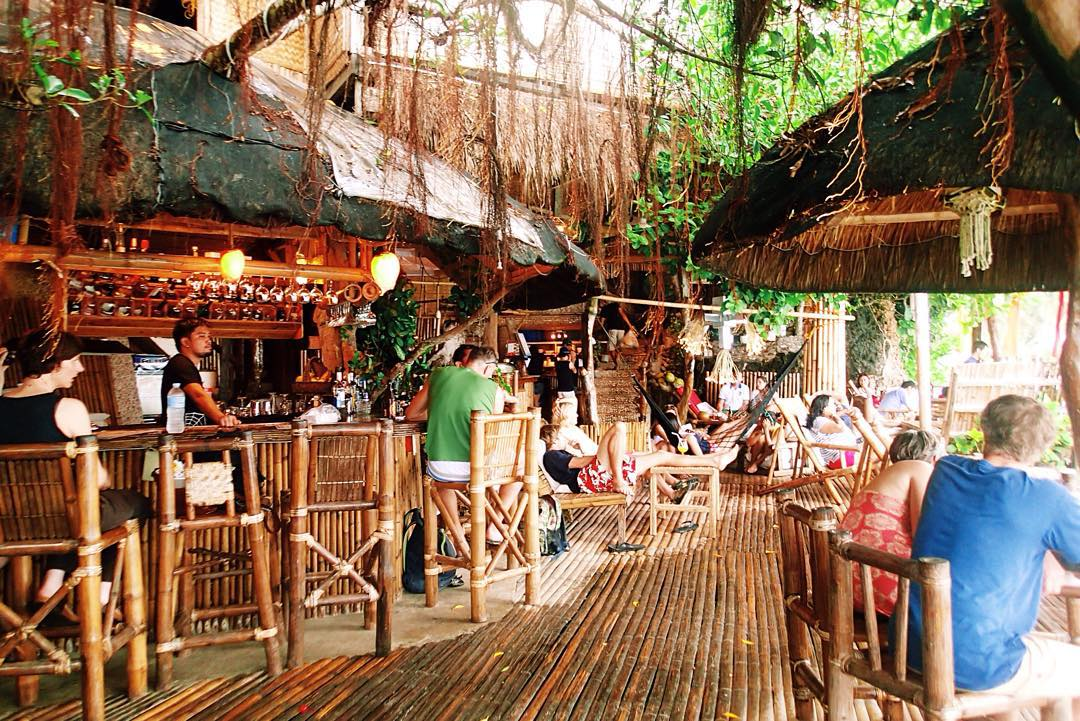
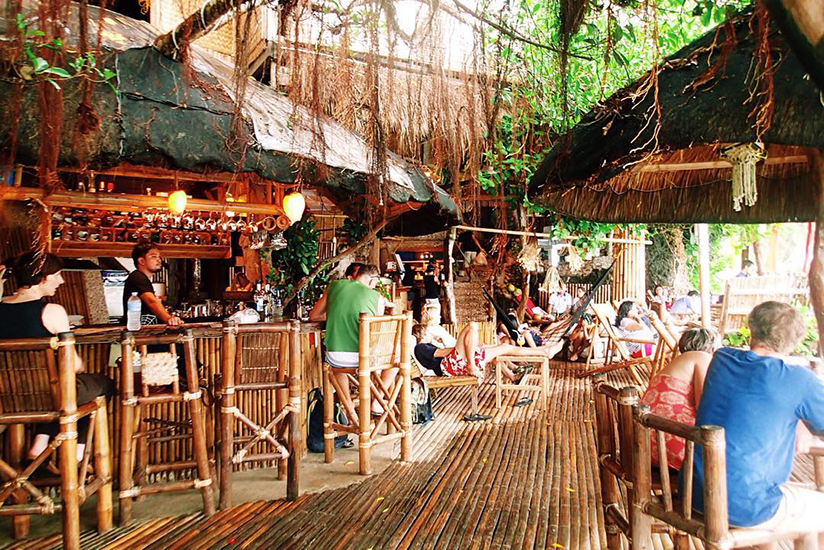
some image changes, and H-tag optimization /analytics
now can track "events" of clicking hero buttons

diff --git a/index.html b/index.html
@@ -36,7 +36,7 @@
           <div class="container">
             <div class="navbar-header">
               <button type="button" class="navbar-toggle collapsed" data-toggle="collapse" data-target="#bs-navbar-collapse-1" aria-expanded="false"> <span class="sr-only">Toggle navigation</span> <span class="icon-bar"></span> <span class="icon-bar"></span> <span class="icon-bar"></span> </button>
-              <a class="navbar-brand" href=""><img class="logo-nav" alt="Postcentive Logo" src="img/logo-nav.png"style="padding-top: 10px;"><img class="logo-head" alt="Postcentive Logo" src="img/logo-head.png" style="padding-top: 10px;"></a> </div>
+              <a class="navbar-brand" href=""><img class="logo-nav" alt="Postcentive Logo" src="img/logo-nav.png" style="padding-top: 10px;"><img class="logo-head" alt="Postcentive Logo" src="img/logo-head.png" style="padding-top: 10px;"></a> </div>
             <div class="collapse navbar-collapse" id="bs-navbar-collapse-1">
               <ul class="nav navbar-nav nav-left">
 
@@ -61,7 +61,7 @@
         </section>
       </header>
       
-     <section class="pricing section-spacing text-center" id="cloud" style="background: url('img/social-media-marketing.jpg') center no-repeat scroll;padding-bottom:70px; padding-top: 70px;background-size: cover;" alt="social media marketing">
+     <section class="pricing section-spacing text-center" id="cloud" style="background: url('img/social-media-marketing.jpg') center no-repeat scroll;padding-bottom:70px; padding-top: 70px;background-size: cover;">
         <div class="container">
           <header class="section-header">
             <span style="line-height: .8; font-size: 60px; font-weight: 600; color: black; position: relative; display: block;">NO MORE</span>
@@ -91,7 +91,7 @@
             <div class="col-md-7 col-md-push-5 text-center"> <img src="img/Company-brand-marketing.jpg" alt="Brand Marketing"> </div>
             <div class="col-md-5 col-md-pull-7">
               <article>
-                <h2 style="color:black; font-size: 46px;">How COMPANIES Use Postcentive</h2>
+                <h1 style="color:black; font-size: 46px;">COMPANIES Engage With Customers</h1>
                 <p>Brands spend a great deal of effort creating and engaging potential customers, but what happens after they buy?
       Postcentive is the ultimate tool for brands looking to foster a post-purchase relationship, win repeat business, and organically expand their reach into customer's social networks.</p>
                 <ul>
@@ -106,7 +106,7 @@
             <div class="col-md-7 text-center"> <img src="img/Customer-brand-marketing.png" alt="Customer Brand Marketing"> </div>
             <div class="col-md-5">
               <article>
-                <h2 style="color:black; font-size: 46px;">How CUSTOMERS Use Postcentive</h2>
+                <h2 style="color:black; font-size: 46px;">CUSTOMERS Engage With Companies</h2>
                 <p>Most customers think that companies are only interested in them until they buy, because customer engagement only goes as far as the checkout page.  Postcentive rewards customers for their existing brand loyalty, and inspires them to keep promoting their favorite brands.</p>
                 <ul>
                   <li>Customers feel more confident in their purchases, because their peers have already endorsed them</li>
@@ -119,10 +119,10 @@
         </div>
       </div>
 
-      <section class="pricing section-spacing text-center" id="filters" alt="marketing analytics">
+      <section class="pricing section-spacing text-center" id="filters">
         <div class="container">
           <header class="section-header">
-            <h2 style="font-size: 60px; color: black">SETTING FILTERS</h2>
+            <span style="font-size: 60px; color: black; font-weight: 600; position:relative;">SETTING FILTERS</span>
           </header>
           <div class="row">
             <div class="col-md-12">
@@ -130,9 +130,9 @@
                 <div class="plan-details">
                   <div class="header">
                     <h4 style="color: white; font-size: 40px">CAMPAIGN</h4>
-                      <h5 style="color: white; font-size: 25px; margin-bottom: 0px">TAG</h5>
+                      <span style="color: white; font-size: 25px; margin-bottom: 0px">TAG</span>
                     </div>
-                  <div class="price"></span><span style="font-size= 1em" class="price-amount">#BOEING</span><span class="period"></span> </div>
+                  <div class="price"><span style="font-size= 1em" class="price-amount">#BOEING</span><span class="period"></span> </div>
                   <ul class="plan-features">
                     <p style="color: white; margin-bottom: 30px">The "Campaign Tag" establishes that the picture posted on Instagram is directly associated with you, typically the name of your brand</p>
                   </ul>
@@ -142,9 +142,9 @@
                 <div class="plan-details">
                   <div class="header">
                     <h4 style="color: white; font-size: 40px">PRIMARY</h4>
-                      <h5 style="color: white; font-size: 25px; margin-bottom: 0px">KEYS</h5>
+                      <span style="color: white; font-size: 25px; margin-bottom: 0px">KEYS</span>
                     </div>
-                  <div class="price"></span><span class="price-amount">747</span><span class="period"></span> </div>
+                  <div class="price"><span class="price-amount">747</span><span class="period"></span> </div>
                   <ul class="plan-features">
                     <p style="color: white; margin-bottom: 30px">The "Primary Keys" tell Postcentive what you are looking for by using advanced search logic and language processing.</p>
                   </ul>
@@ -154,9 +154,9 @@
                 <div class="plan-details">
                   <div class="header">
                     <h4 style="color: white; font-size: 40px">FILTER</h4>
-                      <h5 style="color: white; font-size: 25px; margin-bottom: 0px">KEYS</h5>
+                      <span style="color: white; font-size: 25px; margin-bottom: 0px">KEYS</span>
                     </div>
-                  <div class="price"></span><span class="price-amount">AIRBUS</span><span class="period"></span> </div>
+                  <div class="price"><span class="price-amount">AIRBUS</span><span class="period"></span> </div>
                   <ul class="plan-features">
                     <p style="color: white; margin-bottom: 30px">The "Filter Keys" are put in place to ensure that the images that make it into your stream are relevant and absent of any spam.</p>
                   </ul>
@@ -172,8 +172,8 @@
           <div class="row">
             <div class="col-md-7 col-md-push-5 text-center"> <img src="img/events-marketing.jpg" alt="events marketing"> </div>
             <div class="col-md-5 col-md-pull-7">
-              <article id="events" name="events">
-                <h2 style="color:black; font-size: 46px;">Customers At Events</h2>
+              <article id="events">
+                <h2 style="color:black; font-size: 46px;">Event Marketing</h2>
                 <p>If you are promoting an event, one of your biggest challenges is communicating what the experience will be like. Luckily,
                   many of your fans are already sharing their experience by posting photos on Instagram of the event. Postcentive 
                   allows you to find these photos, categorize them however you need, and filter out the spam so potential customers get to
@@ -189,8 +189,8 @@
           <div class="row">
             <div class="col-md-7 text-center"> <img src="img/product-marketing.jpg" alt="product marketing"> </div>
             <div class="col-md-5">
-              <article id="products" name="products">
-                <h2 style="color:black; font-size: 46px;">Customers With Products</h2>
+              <article id="products">
+                <h2 style="color:black; font-size: 46px;">Product Marketing</h2>
                 <p>Maniquens and models allow shoppers to visualize themselves wearing or using a product, but they have a major flaw.
                   Shoppers want to see the product on somebody who matches their skin tone, body type, and personal style before making a purchasing decision.
                   These photos already exist on Instagram, and Postcentive allows you to categorize and filter these photos to give your customers the
@@ -206,8 +206,8 @@
           <div class="row">
             <div class="col-md-7 col-md-push-5 text-center"> <img src="img/venue-marketing.jpg" alt="venue marketing"> </div>
             <div class="col-md-5 col-md-pull-7">
-              <article id="venues" name="venues">
-                <h2 style="color:black; font-size:46px">Customers At Venues</h2>
+              <article id="venues">
+                <h2 style="color:black; font-size:46px">Venue Marketing</h2>
                 <p>Many customers work very hard, and do not get the chance to go out very often. When they do, they want a gauranteed
                   good time, so they go to their usual place instead of trying somewhere new. It a big challenge for venues to communicate
                   their atmosphere, clientel, and specials effectively enough to win new business. Postcentive allows your current customers to do 
@@ -224,7 +224,7 @@
           <div class="row">
             <div class="col-md-7 text-center"> <img src="img/compliance-monitoring.jpg" alt="compliance monitoring"> </div>
             <div class="col-md-5">
-              <article id="products" name="products">
+              <article id="products">
                 <h2 style="color:black; font-size: 46px;">Compliance And Monitoring</h2>
                   <p>As companies grow, a major concern is protecting the brand identity. With adjents, competitors, and customers all posting about your brand, it is more important than ever to know what they are saying. With Postcentive, you can solve incidences before they become problems.</p>
                 <ul>
@@ -241,7 +241,7 @@
       <section class="pricing section-spacing text-center" id="pricing" style="padding-bottom:50px; padding-top: 50px">
         <div class="container">
           <header class="section-header">
-            <h2 style="font-size: 60px; color: black">EASY SET-UP</h2>
+            <span style="font-size: 60px; color: black; font-weight: 600; position:relative;">EASY SET-UP</span>
           </header>
           <div class="row">
             <div class="col-md-12"> 
@@ -250,34 +250,33 @@
               <div class="plan" style="background-color: rgba(39,95,130,.9)">
                 <div class="plan-details">
                   <div class="header">
-                    <div class="price"></span><span style="font-size= 1em" class="price-amount">1</span><span class="period"></span> </div>
-                    <h4 style="color: white; font-size: 40px">CHOSE YOUR PLAN</h4>
+                      <div class="price"></span><span style="font-size= 1em" class="price-amount">1</span><span class="period"></span></div>
+                    <span style="color: white; font-size: 40px; font-weight: 600;">CHOSE YOUR PLAN</span>
                     </div>
-
                   <ul class="plan-features">
-                    <p style="color: white; margin-bottom: 30px">Chose the plan that best fits your needs. We work with customers to ensure that you get the plan that best fits your campaignand analytics needs.</p>
+                    <span style="color: white; margin-bottom: 30px">Chose the plan that best fits your needs. We work with customers to ensure that you get the plan that best fits your campaign analytics needs.</span>
                   </ul>
                 </div>
               </div>
               <div class="plan" style="background-color: rgba(39,95,130,.9)">
                 <div class="plan-details">
                   <div class="header">
-                    <div class="price"></span><span class="price-amount">2</span><span class="period"></span> </div>
-                    <h4 style="color: white; font-size: 40px">SET YOUR FILTERS</h4>
+                      <div class="price"></span><span class="price-amount">2</span><span class="period"></span> </div>
+                    <span style="color: white; font-size: 40px; font-weight: 600;">SET YOUR FILTERS</span>
                   </div>
                   <ul class="plan-features">
-                    <p style="color: white; margin-bottom: 30px">Follow the step-by-step tutorial inside the Postcentive web console to establish brand, product, and filter key tags that only allow great photos.</p>
+                    <span style="color: white; margin-bottom: 30px">Follow the step-by-step tutorial inside the Postcentive web console to establish brand, product, and filter key tags that only allow great photos.</span>
                   </ul>
                 </div>
               </div>
               <div class="plan" style="background-color: rgba(39,95,130,.9)">
                 <div class="plan-details">
                   <div class="header">
-                    <div class="price"></span><span class="price-amount">3</span><span class="period"></span> </div>
-                    <h4 style="color: white; font-size: 40px">COPY & PASTE CODE</h4>
+                      <div class="price"></span><span class="price-amount">3</span><span class="period"></span> </div>
+                    <span style="color: white; font-size: 40px; font-weight: 600;">COPY &amp; PASTE CODE</span>
                   </div>
                   <ul class="plan-features">
-                    <p style="color: white; margin-bottom: 30px">Once you are happy with the campaign you have set up, and are comfortable going live, it is as simple as copy and pasting one section of code.</p>
+                    <span style="color: white; margin-bottom: 30px">Once you are happy with the campaign you have set up, and are comfortable going live, it is as simple as copy and pasting one section of code.</span>
                   </ul>
                 </div>
               </div>
@@ -286,7 +285,7 @@
         </div>
       </section>
 
-      <section class="cta-section section-spacing text-center" style="padding-top: 50px; padding-bottom: 50px" id="signUp" name="signUp">
+      <section class="cta-section section-spacing text-center" style="padding-top: 50px; padding-bottom: 50px" id="signUp">
         <div class="container">
           <header class="section-header">
             <h2>Sign Up Today!</h2>
@@ -349,6 +348,7 @@
           if (location.pathname.replace(/^\//,'') == this.pathname.replace(/^\//,'') && location.hostname == this.hostname) {
             var target = $(this.hash);
             target = target.length ? target : $('[name=' + this.hash.slice(1) +']');
+            ga('send', 'even', 'hero', 'nav_click', target[0].id)
             if (target.length) {
               $('html,body').animate({
                 scrollTop: target.offset().top - 190

diff --git a/css/main.css b/css/main.css
@@ -471,7 +471,7 @@ transform:translateY(0);
 
 .plan .header,
 .price,
-.plan-features { padding: 1.5em 1em; }
+.plan-features { padding: 1.5em 1em;}
 
 .plan .header h4 {
   font-size: 21px;
